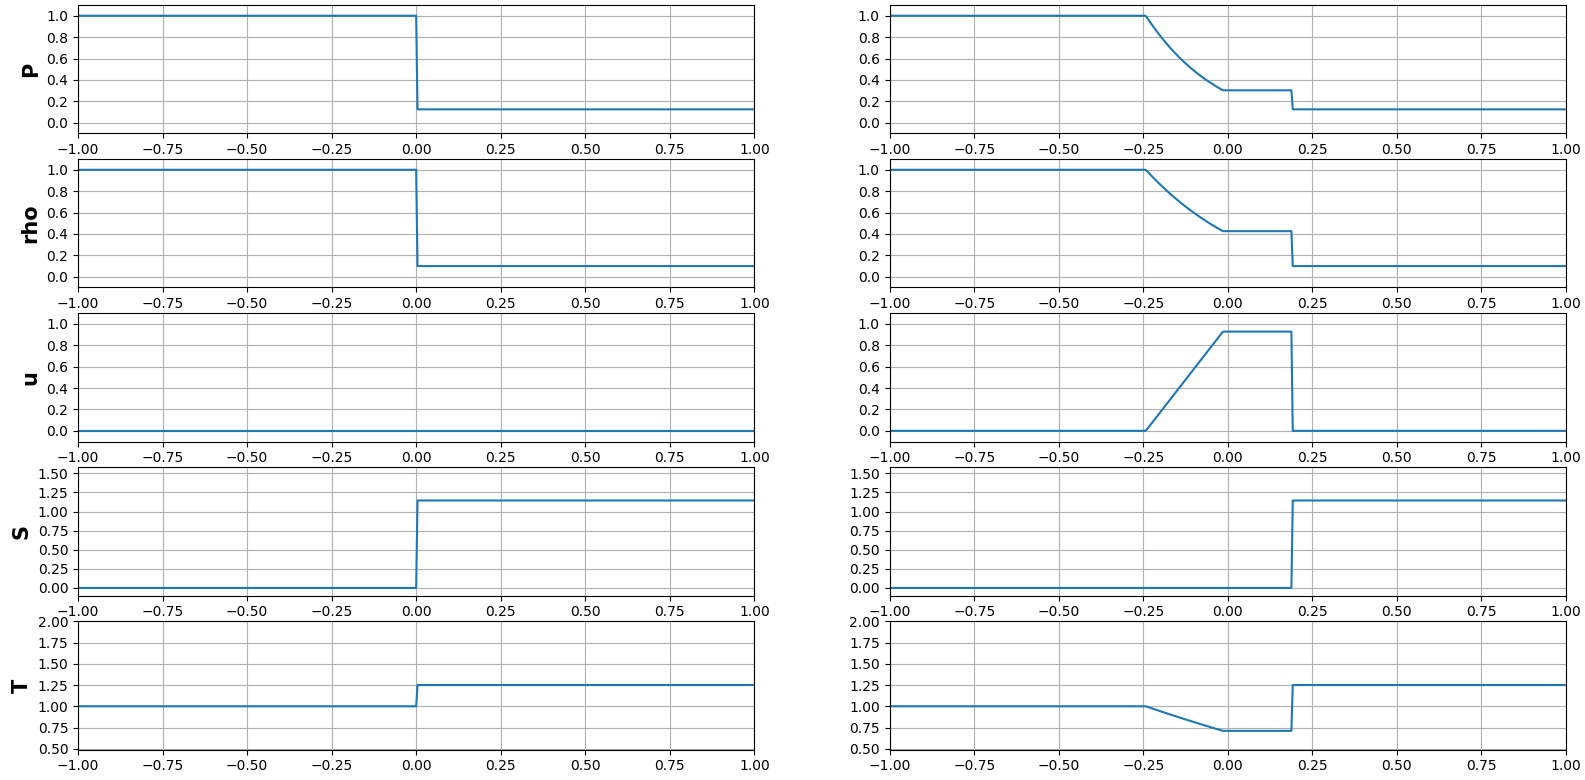
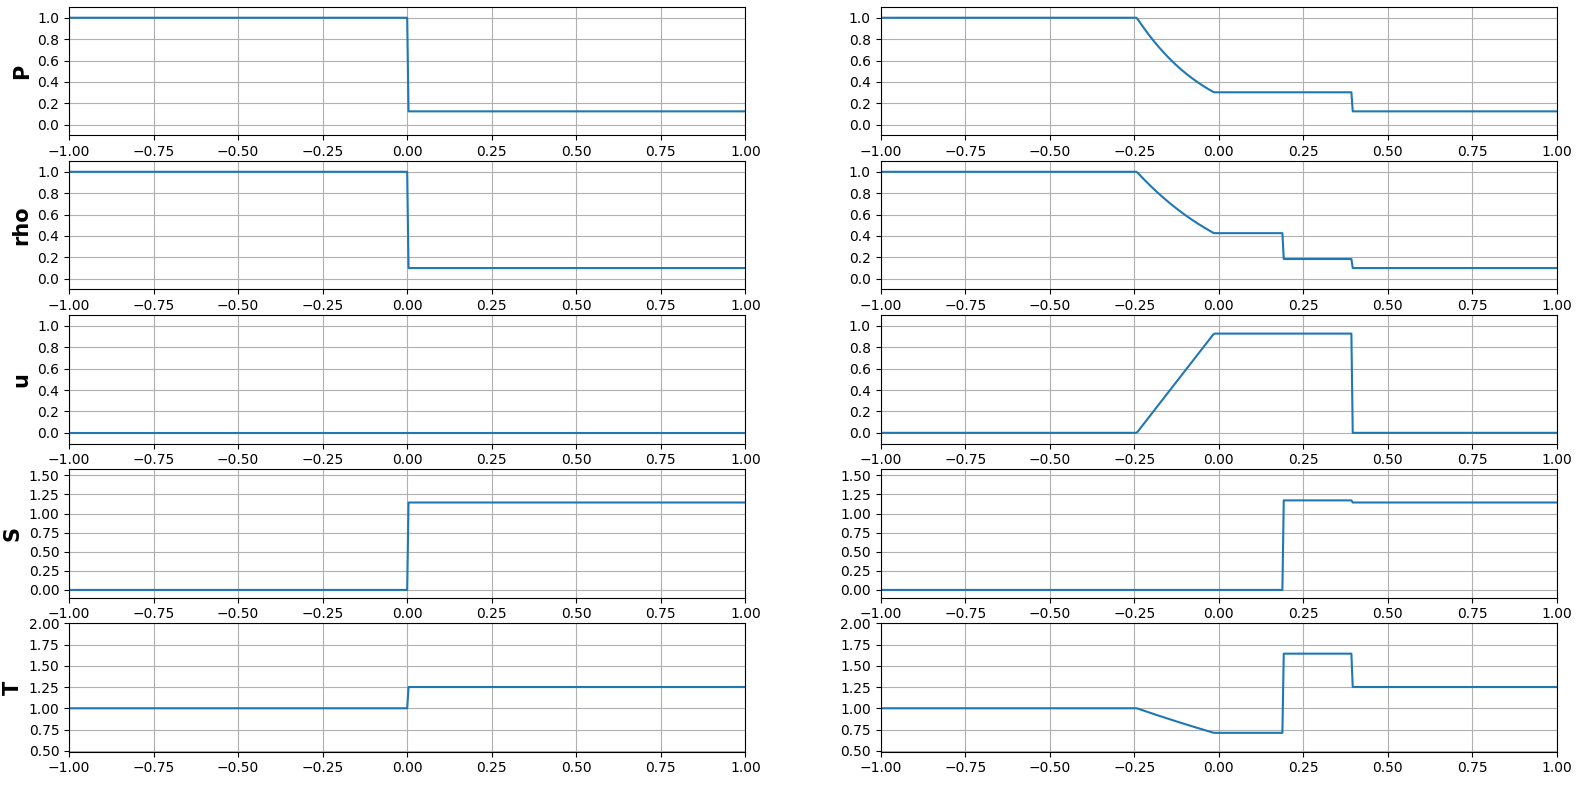
Add corrected work and graphs parameters

Changed region(s): [[0.5279, 0.0, 1.0, 0.9846], [0.0, 0.0, 0.4968, 0.9846], [0.4658, 0.1846, 0.4968, 0.2154]]

diff --git a/cases/riemann/course_work_2024/main.tex b/cases/riemann/course_work_2024/main.tex
@@ -208,7 +208,7 @@ p = p(\rho,e)
         u_1(x,t) &=& \frac{2}{\gamma+1}(c_L + \frac{x}{t}).
     \end{eqnarray} 
 \end{enumerate}
-    
+    Конкретные значения параметров $p_2,u_2$ при заданных начальных условиях получаются из решения системы нелинейных алгебраических уравнений, благодаря равенству параметров слева и справа от контактного разрыва.
 На рис.2 представлены графики параметров газа($p,\rho,u, S, T$) в начальный момент времени ($t=0$) и момент $t=0.2$ при начальных условиях задачи Сода: 
 \begin{equation}
         (p, u, \rho) =
